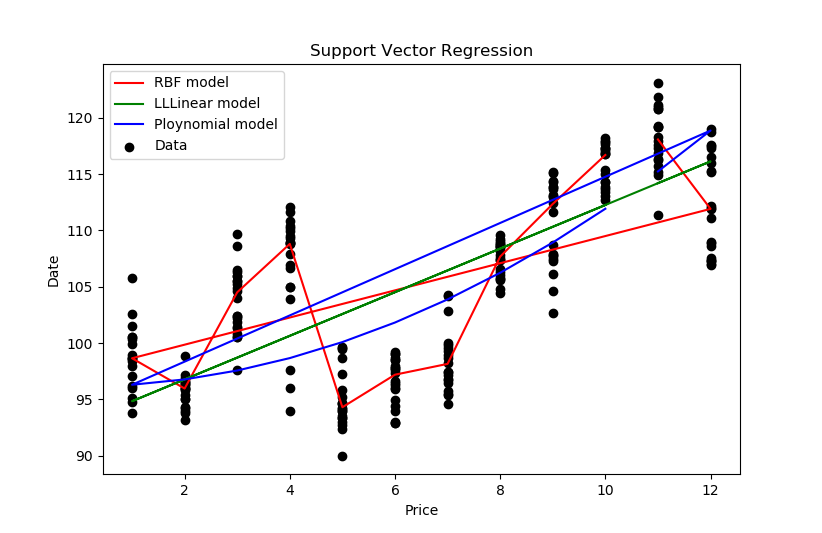
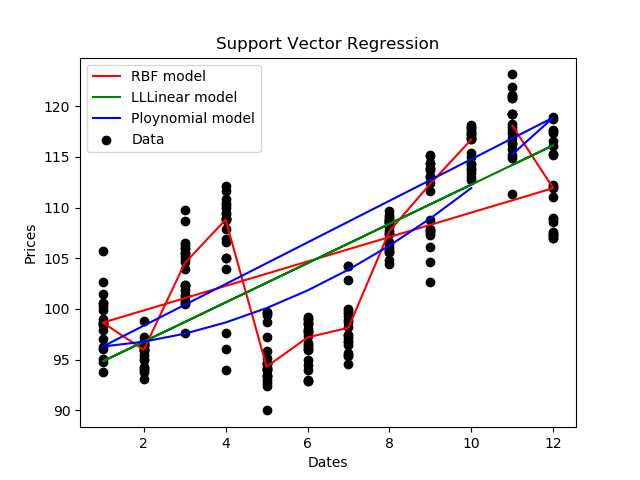
fixed and new graph with proper lables

diff --git a/script.py b/script.py
@@ -16,12 +16,12 @@ def get_data(filename):
     return
 
 def predict_prices(dates, prices, x):
-    
+    dates = np.reshape(dates,(len(dates), 1))
     svr_lin = SVR(kernel= 'linear', C=1e3, gamma = 'auto')
     svr_poly = SVR(kernel='poly', C=1e3, degree = 2, gamma = 'auto')
     svr_rbf = SVR(kernel='rbf', C=1e3, gamma = 'auto')
-    dates = np.reshape(dates,(len(dates), 1))
-    prices = np.reshape(prices,(len(prices), 1))
+    
+    
     svr_lin.fit(dates, prices)
     svr_poly.fit(dates, prices)
     svr_rbf.fit(dates, prices)
@@ -31,8 +31,8 @@ def predict_prices(dates, prices, x):
     plt.plot(dates, svr_rbf.predict(dates), color='red', label='RBF model')
     plt.plot(dates, svr_lin.predict(dates), color='green', label='LLLinear model')
     plt.plot(dates, svr_poly.predict(dates), color='blue', label='Ploynomial model')
-    plt.ylabel('Date')
-    plt.xlabel('Price')
+    plt.ylabel('Prices')
+    plt.xlabel('Dates')
     plt.title('Support Vector Regression')
     plt.legend()
     plt.show()
